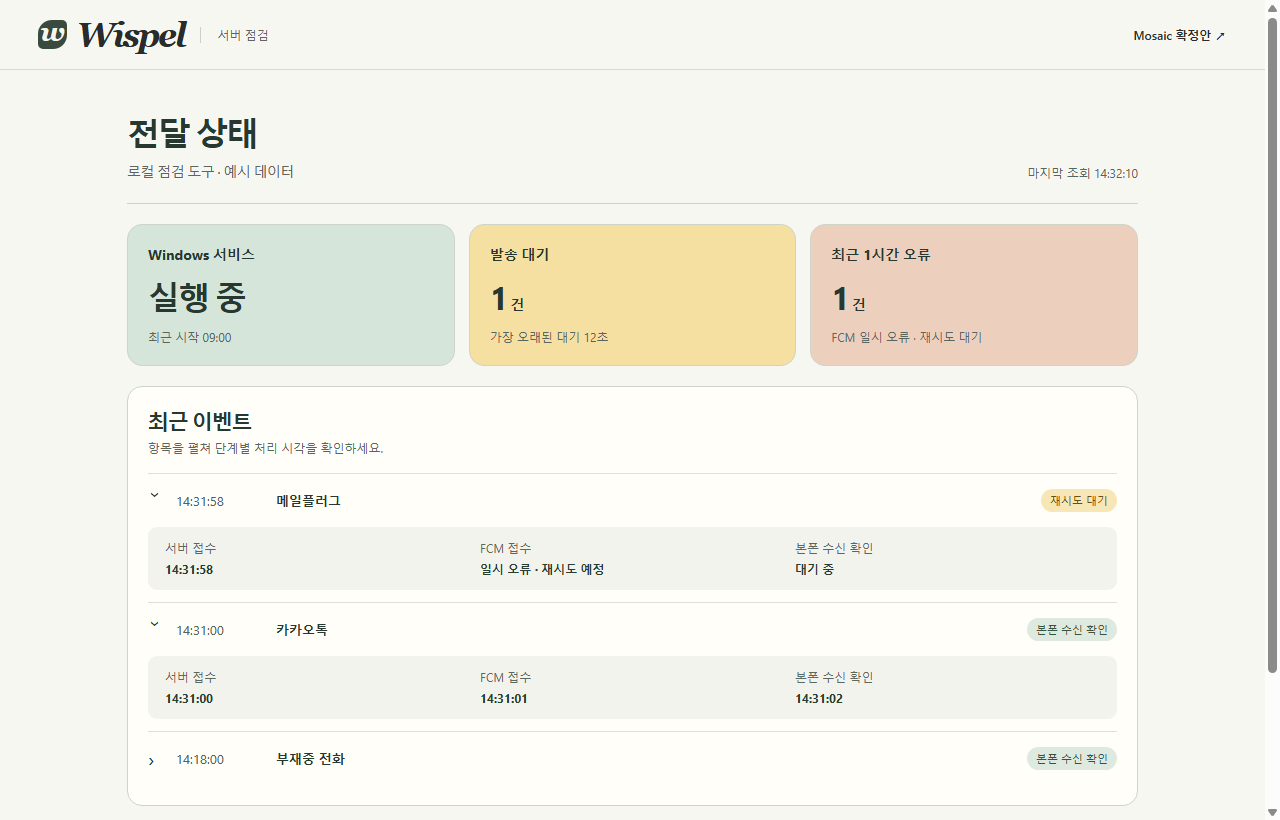
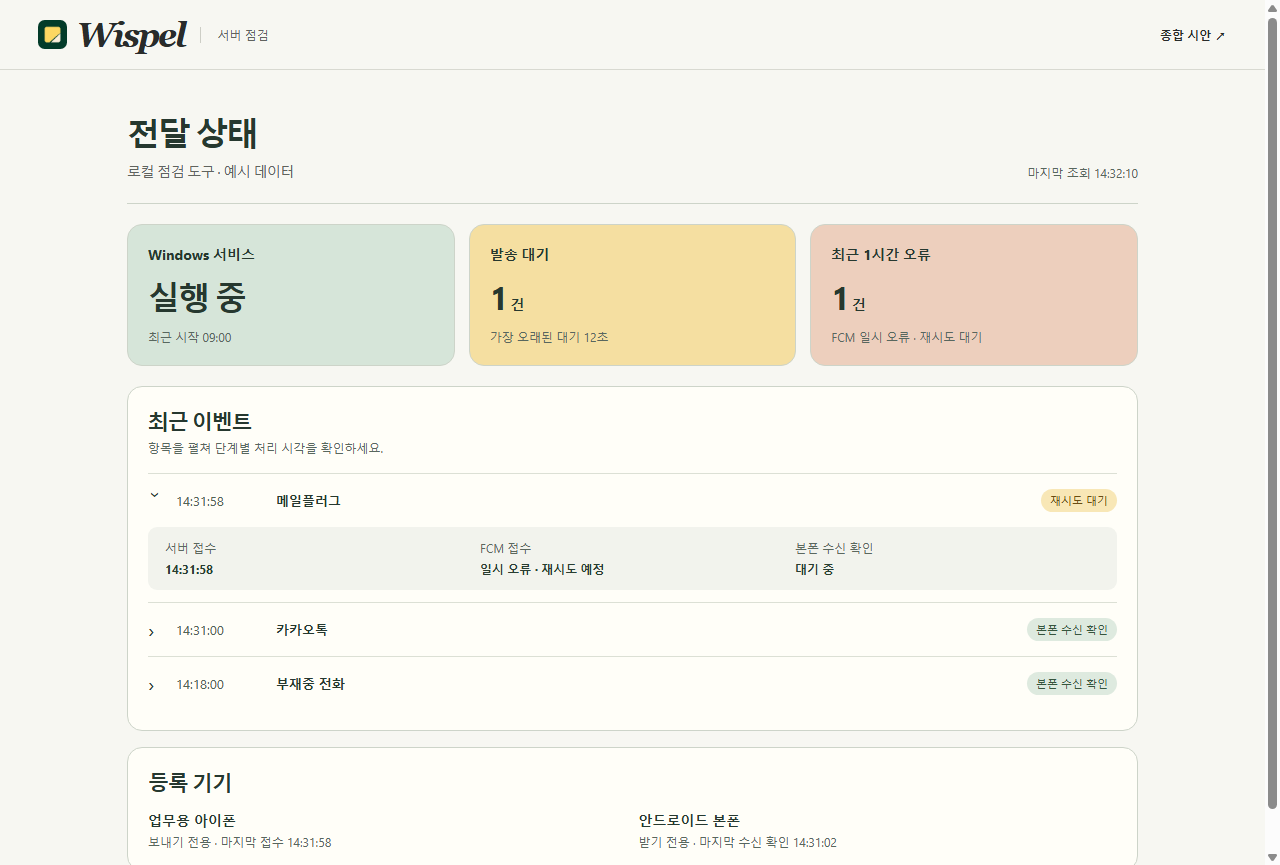
09번 접은 쪽지와 Mosaic 종합 시안 및 디자인 검수 기준 확정

diff --git a/design/board.js b/design/board.js
@@ -32,6 +32,7 @@ function buildBoard() {
   const button=(action,text,cls='',label='')=>`<button type="button" data-action="${action}" class="${cls}"${label?` aria-label="${label}"`:''}>${text}</button>`;
   const dot=(e)=>`<span class="app-icon i-${e.icon}">${icon(e.icon)}</span>`;
   const total=events.reduce((n,e)=>n+e.qty,0);
+  const wordmark = '<span class="word"><img src="icons/09-note.png" alt="">Wispel</span>';
   function status(ios=false) {
     return `<div class="status"><b>${ios?'9:41':'14:32'}</b><span class="signal" aria-hidden="true"><i></i><i></i><i></i><em></em></span></div>`;
   }
@@ -41,7 +42,7 @@ function buildBoard() {
   function home() {
     const s=state, pause=button('pause',icon(s.paused?'play':'pause',13)+(s.paused?'재개':'잠시 쉬기'),'pill');
     const source=`<div class="source">${icon('phone',13)} 업무용 아이폰 <span>· 마지막 수신 14:31</span></div>`;
-    const header=`<div class="app-head"><span class="word">Wispel</span>${pause}</div>`;
+    const header=`<div class="app-head">${wordmark}${pause}</div>`;
     const section=(name,n)=>`<div class="section-label"><b>${name}</b><span>${n}</span></div>`;
     const body=`<h3>최근 알림</h3>${source}${section('앱별로 보기',`오늘 ${total}건`)}<div class="tile-grid">${events.map(e=>button('app-'+e.icon,`${icon(e.icon,18)}<b>${e.qty}<small>건</small></b><strong>${e.app}</strong>`,'tile t-'+e.icon)).join('')}</div>${section('마지막 수신','14:31')}${list(events.slice(0,1))}`;
     return header+(s.paused?`<div class="notice">전달 일시정지 · ${s.paused}</div>`:'')+body;
@@ -49,17 +50,17 @@ function buildBoard() {
   function settings() {
     const s=state;
     const row=(key,title,sub)=>button(key,`<b>${title}</b><span>${sub} ›</span>`,'setting-row');
-    return `<div class="app-head"><span class="word">Wispel</span></div><h3>설정</h3>
+    return `<div class="app-head">${wordmark}</div><h3>설정</h3>
       <div class="section-label"><b>기기 관리</b></div><div class="device-card"><small>이 폰 · 받기 전용</small><strong>안드로이드 본폰</strong><div>← 업무용 아이폰 · 보내기 전용</div></div>
       <div class="section-label"><b>알림 설정</b></div>${row('receive','받을 알림',`${s.receive.size}종류`)}${row('watch','워치에 표시',`${s.watch.size}종류`)}${row('sound','소리와 진동','시스템 채널')}${row('pause','잠시 쉬기',s.paused||'꺼짐')}${row('history','기록 보관',s.history)}`;
   }
   function ios() {
     const rows=(names)=>names.map(name=>`<div class="shortcut"><b>${name}</b>${button('shortcut-'+name,'받기','get',`${name} 단축어 받기`)}</div>`).join('');
-    return `<div class="app-head"><span class="word">Wispel</span></div><h3>단축어 받기</h3><div class="device-card"><small>이 폰 · 보내기 전용</small><strong>업무용 아이폰</strong><div>→ 안드로이드 본폰</div></div><div class="section-label"><b>기본 앱 알림</b></div>${rows(['전화','문자'])}<div class="section-label"><b>일반 앱 알림</b></div>${rows(['카카오톡','Slack','메일플러그'])}${button('ios-test','시험 알림 보내기','primary')}`;
+    return `<div class="app-head">${wordmark}</div><h3>단축어 받기</h3><div class="device-card"><small>이 폰 · 보내기 전용</small><strong>업무용 아이폰</strong><div>→ 안드로이드 본폰</div></div><div class="section-label"><b>기본 앱 알림</b></div>${rows(['전화','문자'])}<div class="section-label"><b>일반 앱 알림</b></div>${rows(['카카오톡','Slack','메일플러그'])}${button('ios-test','시험 알림 보내기','primary')}`;
   }
   function watch() {
     const s=state, visible=s.watch.has('부재중 전화')&&s.receive.has('부재중 전화')&&!s.paused;
-    return `<div class="watch-wrap"><span class="strap"></span><div class="dial"><time>14:18</time>${icon('call',24)}<b>${visible?'부재중 전화':'알림 없음'}</b><small>${visible?'업무용 아이폰':'위스펠'}</small></div></div><div class="watch-caption">Wear OS 시스템 알림 미리보기</div>`;
+    return `<div class="watch-wrap"><span class="strap"></span><div class="dial"><time>14:18</time><span class="note-glyph" role="img" aria-label="위스펠"></span><b>${visible?'부재중 전화':'알림 없음'}</b><small>${visible?'업무용 아이폰':'위스펠'}</small></div></div><div class="watch-caption">Wear OS 시스템 알림 미리보기</div>`;
   }
   function frame(key) {
     if(key==='watch') return watch();

diff --git a/design/board.css b/design/board.css
@@ -1,6 +1,8 @@
 :root {
   color-scheme: light;
   --ink:#292c2b; --sub:#60635e; --rule:#d8d9d1;
+  --note-field:#043d2b; --note-face:#fdd863; --note-fold:#fbf0dc;
+  --tile-chat:#f4d67b; --tile-call:#e8c6b5; --tile-slack:#cfd9f3; --tile-mail:#d2dfd0; --tile-sms:#e4dbeb;
   font-family:"Instrument Sans","Segoe UI","Malgun Gothic",sans-serif;
   color:var(--ink); background:#f7f7f2; font-synthesis:none;
 }
@@ -14,7 +16,24 @@ a{color:inherit}
 button, a{touch-action:manipulation}
 .mast{display:flex;align-items:center;gap:16px;min-height:70px;border-bottom:1px solid var(--rule);padding:0 clamp(18px,3vw,55px)}
 .brand{font:italic 600 34px/1 Georgia,serif;letter-spacing:-2.3px;display:inline-flex;align-items:center;gap:9px;text-decoration:none}
-.brand-mark{display:inline-grid;place-items:center;background:#3b4a3f;color:#f4f7ed;border-radius:14px 5px 14px 5px;width:29px;height:29px;font-size:26px;line-height:24px;padding:0 3px 5px 0}
+.brand-mark{display:block;border-radius:23%;width:29px;height:29px}
+.identity{display:flex;align-items:center;gap:22px;padding:26px 0}
+.app-master{display:block;width:108px;height:108px;border-radius:23%}
+.identity p{margin:0 0 8px;color:var(--sub);font-size:13px}
+.identity h1{margin:0}.identity h1 span{color:#708073;font-weight:400}
+.identity-colors{display:flex;gap:18px;list-style:none;padding:0;margin:0 0 0 auto}
+.identity-colors li{display:grid;grid-template-columns:20px auto;gap:2px 6px;align-items:center;font-size:11px}
+.identity-colors i{grid-row:span 2;width:20px;height:32px;border-radius:5px;border:1px solid #0001}
+.identity-colors code{font-size:10px;color:var(--sub)}
+.tone-green{background:var(--note-field)}.tone-yellow{background:var(--note-face)}.tone-cream{background:var(--note-fold)}
+.word{display:inline-flex;align-items:center;gap:6px}.word img{width:21px;height:21px;border-radius:23%}
+.note-glyph{display:inline-block;position:relative;width:17px;height:17px;border-radius:3px;overflow:hidden}
+.note-glyph::before,.note-glyph::after{content:"";position:absolute;inset:0;background:currentColor}
+.note-glyph::before{clip-path:polygon(0 0,100% 0,100% 38%,38% 100%,0 100%)}
+.note-glyph::after{clip-path:polygon(100% 53%,100% 100%,53% 100%)}
+.diagnostics-strip{display:flex;align-items:center;gap:24px;padding:16px 18px;background:#e5ebe0;border-radius:12px;font-size:12px;color:#314b3b}
+.diagnostics-strip a{margin-right:auto;font-size:14px;font-weight:bold}.diagnostics-strip b{margin-left:4px}
+@media(max-width:760px){.identity{flex-wrap:wrap;gap:12px}.app-master{width:72px;height:72px}.identity-colors{width:100%;margin:4px 0 0}.diagnostics-strip{flex-wrap:wrap;gap:8px 16px}.diagnostics-strip a{width:100%}}
 .mast-sub{border-left:1px solid #cdcec6;padding-left:16px;font-size:12px;color:var(--sub)}
 .plan-link,.open-detail,.back,.view-bar button,.detail-views button,.sheet-close{font-weight:600;font-size:12px}
 .plan-link{margin-left:auto;text-decoration:none}
@@ -85,8 +104,8 @@ h3{font-size:25px;line-height:1.22;letter-spacing:-.075em;margin:14px 0 7px}
 .tile-grid{display:grid;grid-template-columns:1fr 1fr;gap:6px}
 .tile{display:grid;grid-template-columns:1fr auto;grid-template-rows:1fr auto;align-items:center;background:#e5ebde;color:#24372d;padding:10px;text-align:left;border-radius:10px;min-height:65px}
 .tile b{font:500 23px/1 Georgia,serif}.tile b small{font:600 9px/1 sans-serif;margin-left:2px}
-.tile strong{grid-column:span 2;font-size:11px}.t-chat{grid-column:span 2;min-height:70px;background:#f4d67b}
-.t-call{background:#e8c6b5}.t-hash{background:#cfd9f3}.t-mail{background:#d2dfd0}.t-sms{background:#e4dbeb}
+.tile strong{grid-column:span 2;font-size:11px}.tile:first-child{grid-column:span 2;min-height:70px}
+.t-chat{background:var(--tile-chat)}.t-call{background:var(--tile-call)}.t-hash{background:var(--tile-slack)}.t-mail{background:var(--tile-mail)}.t-sms{background:var(--tile-sms)}
 .route-hero{margin:13px 0 1px;background:#244aa8;color:white;padding:12px;border-radius:10px}
 .route{display:flex;align-items:center;justify-content:space-between;gap:4px;margin:12px 0}
 .route>div{display:grid;justify-items:start;gap:5px}.route strong{font-size:11px;letter-spacing:-.055em}.route small{font-size:9px}

diff --git a/design/index.html b/design/index.html
@@ -3,15 +3,28 @@
 <head>
   <meta charset="utf-8">
   <meta name="viewport" content="width=device-width, initial-scale=1">
-  <title>Wispel · Mosaic 확정안</title>
+  <title>위스펠 · 접은 쪽지와 Mosaic 종합 시안</title>
+  <link rel="icon" href="icons/09-note.png">
   <link rel="stylesheet" href="board.css">
   <script defer src="board.js"></script>
 </head>
 <body>
-  <header class="mast"><a href="index.html" class="brand" aria-label="위스펠 디자인 홈"><span class="brand-mark" aria-hidden="true">w</span>Wispel</a><span class="mast-sub">디자인 보드</span><a class="plan-link" href="diagnostics.html">서버 점검 시안 ↗</a></header>
+  <header class="mast"><a href="index.html" class="brand" aria-label="위스펠 디자인 홈">Wispel</a><span class="mast-sub">종합 시안</span><a class="plan-link" href="../plan.md">프로젝트 계획 ↗</a></header>
   <main>
-    <section class="intro"><div><h1>Mosaic · 알림 타일</h1><p>위스펠 확정 디자인 · 안드로이드 본폰, 아이폰 서브폰, Wear OS</p></div><a href="../plan.md" class="plan-link">프로젝트 계획 ↗</a></section>
+    <section class="identity">
+      <a href="icons/09-note.png" aria-label="접은 쪽지 아이콘 원본 열기"><img class="app-master" src="icons/09-note.png" alt="짙은 초록 바탕에 오른쪽 아래를 접은 노란 쪽지"></a>
+      <div><p>앱 아이콘 09 · 화면 디자인 04</p><h1>접은 쪽지 <span>×</span> Mosaic</h1></div>
+      <ul class="identity-colors" aria-label="아이콘 대표 색상">
+        <li><i class="tone-green"></i>바탕 <code>#043D2B</code></li>
+        <li><i class="tone-yellow"></i>앞면 <code>#FDD863</code></li>
+        <li><i class="tone-cream"></i>접힌 면 <code>#FBF0DC</code></li>
+      </ul>
+    </section>
     <section id="gallery" class="approved" aria-label="Mosaic 주요 화면"></section>
+    <section class="diagnostics-strip" aria-label="읽기 전용 점검 웹 요약 예시">
+      <a href="diagnostics.html">Windows · 전달 상태 ↗</a>
+      <span>서비스 <b>실행 중</b></span><span>발송 대기 <b>1건</b></span><span>최근 1시간 오류 <b>1건</b></span>
+    </section>
     <footer>Wispel <span>·</span> 예시 데이터로 동작하는 화면 시안입니다.</footer>
   </main>
   <dialog id="detail" aria-labelledby="detail-heading">

diff --git a/design/diagnostics.html b/design/diagnostics.html
@@ -4,11 +4,12 @@
   <meta charset="utf-8">
   <meta name="viewport" content="width=device-width,initial-scale=1">
   <title>Wispel · 서버 점검</title>
+  <link rel="icon" href="icons/09-note.png">
   <link rel="stylesheet" href="board.css">
   <link rel="stylesheet" href="diagnostics.css">
 </head>
 <body>
-  <header class="mast"><a class="brand" href="index.html"><span class="brand-mark" aria-hidden="true">w</span>Wispel</a><span class="mast-sub">서버 점검</span><a class="plan-link" href="index.html">Mosaic 확정안 ↗</a></header>
+  <header class="mast"><a class="brand" href="index.html"><img class="brand-mark" src="icons/09-note.png" alt="">Wispel</a><span class="mast-sub">서버 점검</span><a class="plan-link" href="index.html">종합 시안 ↗</a></header>
   <main class="diag">
     <header class="intro"><div><h1>전달 상태</h1><p>로컬 점검 도구 · 예시 데이터</p></div><small>마지막 조회 <time>14:32:10</time></small></header>
     <section class="metrics" aria-label="서비스 상태">

diff --git a/plan.md b/plan.md
@@ -2,7 +2,7 @@
 
 위스펠은 서브폰을 꺼내지 않고도 어느 기기에 어떤 알림이 왔는지 확인하는 앱입니다. 첫 사용 환경은 **iOS 27.2.1 아이폰이 서브폰, 안드로이드가 본폰, 본폰에 연결된 Wear OS 워치가 보조 수신기**인 구성입니다. 손목에 뜨는 `업무용 아이폰 · 부재중 전화` 한 줄로 필요한 판단을 할 수 있는 것이 목표입니다.
 
-확정 디자인은 **4번 Mosaic · 알림 타일**입니다. 앱별 건수를 타일로 표시하고, 타일을 누르면 해당 종류의 기록을 확인합니다. [본폰·아이폰·워치 확정안](design/index.html)과 [Windows 서버 점검 웹 시안](design/diagnostics.html)을 각각 열 수 있습니다.
+확정 조합은 **아이콘 09번 ‘접은 쪽지’ + 화면 4번 ‘Mosaic · 알림 타일’**입니다. [종합 시안 한 장](design/overview.png), [동작을 확인하는 디자인 보드](design/index.html), [읽기 전용 서버 점검 웹](design/diagnostics.html)을 구현 기준으로 사용합니다.
 
 ## 1. 전달 구조
 
@@ -43,6 +43,20 @@
 - 첫 버전에서 사용자가 알림을 누르면 본폰의 최근 기록으로 이동합니다. 통화 수락·거절, 문자·카카오톡 답장은 첫 버전의 개발 범위에서 제외합니다.
 
 ## 3. 화면과 설정
+
+### 실제 제품에 디자인을 옮기는 기준
+
+1. **아이콘 원본을 하나로 관리합니다.** [09번 원본](design/icons/09-note.png)의 정면 실루엣, 오른쪽 아래 대각선의 방향과 간격을 유지합니다. 대표색은 원본에서 채취한 바탕 초록 `#043D2B`, 앞면 노랑 `#FDD863`, 접힌 면 크림 `#FBF0DC`입니다. 이미지 자체의 색조 변화는 유지합니다.
+2. **화면 색과 배치를 이름으로 대응시킵니다.** 종합 시안의 밝은 배경은 `#FFFCF4`, 기본 글자는 `#263D32`입니다. 카카오톡은 노랑 `#F4D67B`, 전화는 살구 `#E8C6B5`, Slack은 파랑 `#CFD9F3`, 메일플러그는 세이지 `#D2DFD0`, 문자는 연보라 `#E4DBEB`로 고정합니다. 최신 알림 종류를 가로 전체 너비에 두고 나머지 종류를 두 열로 배치합니다. 종류명·아이콘·건수를 함께 보여 줍니다. 안드로이드에서는 이 역할을 Compose 테마와 타일 컴포넌트에, iOS에서는 사용되는 색과 역할 배지를 Asset Catalog와 SwiftUI 스타일에, 웹에서는 CSS 변수에 대응시킵니다.
+
+| 표시 위치 | 구현할 표현 | 검수할 차이 |
+|---|---|---|
+| Android 런처와 앱 안 | 런처는 초록 배경과 접힌 쪽지 전경을 분리한 adaptive icon, 앱 헤더는 컬러 원본과 Wispel 이름을 사용합니다. | 원형·둥근 사각형 마스크에서 접힌 모서리가 잘리지 않는지 확인합니다. |
+| iOS 홈과 단축어 안내 | 동일 원본에서 iOS 앱 아이콘 리소스를 만들고, 앱 안의 단축어 받기 화면에도 같은 마크를 씁니다. | 시스템이 적용하는 모서리 마스크와 외형을 감안해 배경을 끝까지 채우고, 앱 안에서 전화·문자 등 대상 앱 이름이 구분되는지 확인합니다. |
+| Android 시스템 알림과 Wear OS | 알림용 작은 아이콘은 한 가지 색의 쪽지 실루엣으로 만듭니다. 대각선은 투명한 틈으로 표현하고 알림 종류는 문구로 표시합니다. 워치는 본폰이 발행한 알림을 브리징합니다. | 배경색·시간 위치는 OS가 결정합니다. 작은 크기에서도 접힘이 보이고 출처·종류가 읽히는지를 실기기에서 확인합니다. |
+| Windows 점검 웹 | 헤더와 브라우저 탭에 09번 마크를 사용합니다. 상태 타일에는 실행 중·발송 대기·오류를 글자로 표시합니다. | 실행 상태와 오류를 색만으로 판별하게 하지 않습니다. 점검 화면의 읽기 전용 동작도 유지합니다. |
+
+**검수 순서** — 시안과 같은 예시(카카오톡 3건, 부재중 전화 1건, Slack 2건, 메일 1건, 문자 1건)를 넣어 본폰·아이폰·워치·웹을 캡처합니다. 아이콘 방향, 타일 순서·색·건수, 기기 역할, 알림 출처를 기준 이미지와 대조합니다. 좁은 화면과 큰 글자 모드에서는 레이아웃 재배치를 허용하되 문구 잘림·버튼 겹침은 수정합니다. 확정 디자인을 변경할 때는 보드·PNG·계획을 같은 변경에서 갱신합니다. [Android 적응형 아이콘](https://developer.android.com/develop/ui/compose/system/icon_design_adaptive) · [Apple 앱 아이콘 가이드](https://developer.apple.com/design/human-interface-guidelines/app-icons)
 
 본폰의 첫 화면은 **최근 알림**입니다. 상단에는 기기 이름과 마지막 수신 시각을, 아래에는 발생 시각순으로 기록을 표시합니다. 최초 상태에서는 `첫 알림 대기 중`과 시험 방법을 보여줍니다. 마지막 수신 시각만으로 기기의 온라인 여부를 단정하지 않습니다.
 

diff --git a/README.md b/README.md
@@ -1,11 +1,11 @@
 # wispel
 
-위스펠은 서브폰에 도착한 알림의 종류와 출처를 본폰과 워치에서 확인하는 앱입니다. 확정 디자인은 **Mosaic · 알림 타일(4번)**입니다.
+위스펠은 서브폰에 도착한 알림의 종류와 출처를 본폰과 워치에서 확인하는 앱입니다. 확정 디자인은 **09번 접은 쪽지 아이콘 × 4번 Mosaic 알림 타일**입니다.
 
-[프로젝트 계획](plan.md) · [Mosaic 화면 원본](design/overview.png) · [서버 점검 웹 화면 미리보기](design/diagnostics.png)
+[디자인 적용·검수 계획](plan.md#실제-제품에-디자인을-옮기는-기준) · [종합 시안 한 장](design/overview.png) · [아이콘 원본](design/icons/09-note.png) · [서버 점검 웹 미리보기](design/diagnostics.png)
 
-[앱 아이콘 후보 10종 한눈에 보기](design/icons/overview.png) · [아이콘별 원본과 제작 프롬프트](design/icons/index.html)
-
-![Mosaic 안드로이드 홈과 설정, 아이폰 단축어, 워치 알림](design/overview.png)
+![접은 쪽지 아이콘과 Mosaic 화면 종합 시안](design/overview.png)
 
 저장소를 내려받고 [Mosaic 디자인 보드](design/index.html) 또는 [읽기 전용 점검 웹 시안](design/diagnostics.html)을 브라우저에서 여세요. 두 시안 모두 예시 데이터를 사용합니다.
+
+이전 [아이콘 후보 10종과 제작 프롬프트](design/icons/index.html)도 확인할 수 있습니다.
